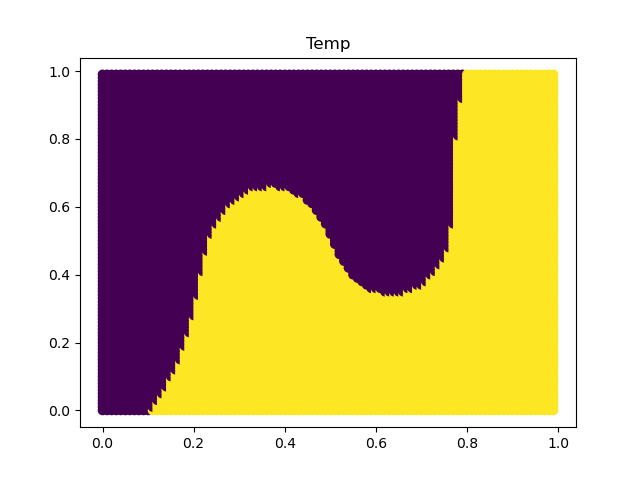
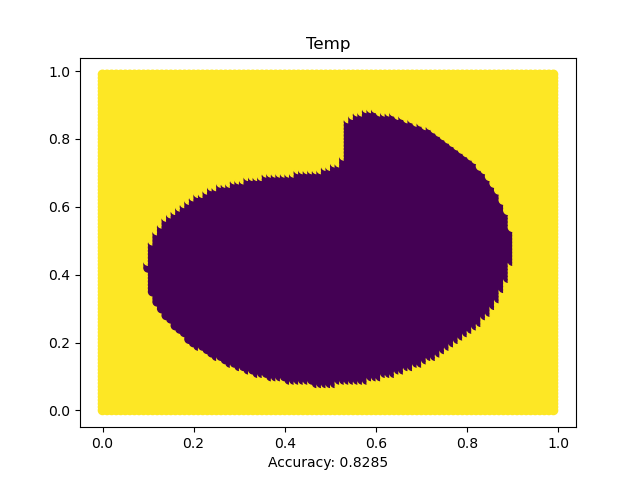
Added default use of train

diff --git a/project_2/train.py b/project_2/train.py
@@ -32,9 +32,12 @@ def train(dataset, C=1.0, gamma='scale', kernel='rbf', plotname='Temp'):
 
     plt.scatter(Xbound[:,0], Xbound[:,1], c=Ybound)
     plt.title(plotname)
+    plt.xlabel("Accuracy: "+str(accuracy))
+    
     plt.savefig(plotname+'.png')
-
+    
     return accuracy
 
 if __name__=="__main__":
-    train('moons_dataset.csv')
+    accuracy = train('rolls_dataset.csv')
+    print("Test Accuracy: ", accuracy)

diff --git a/project_2/main.py b/project_2/main.py
@@ -1,0 +1,2 @@
+from train import train
+
